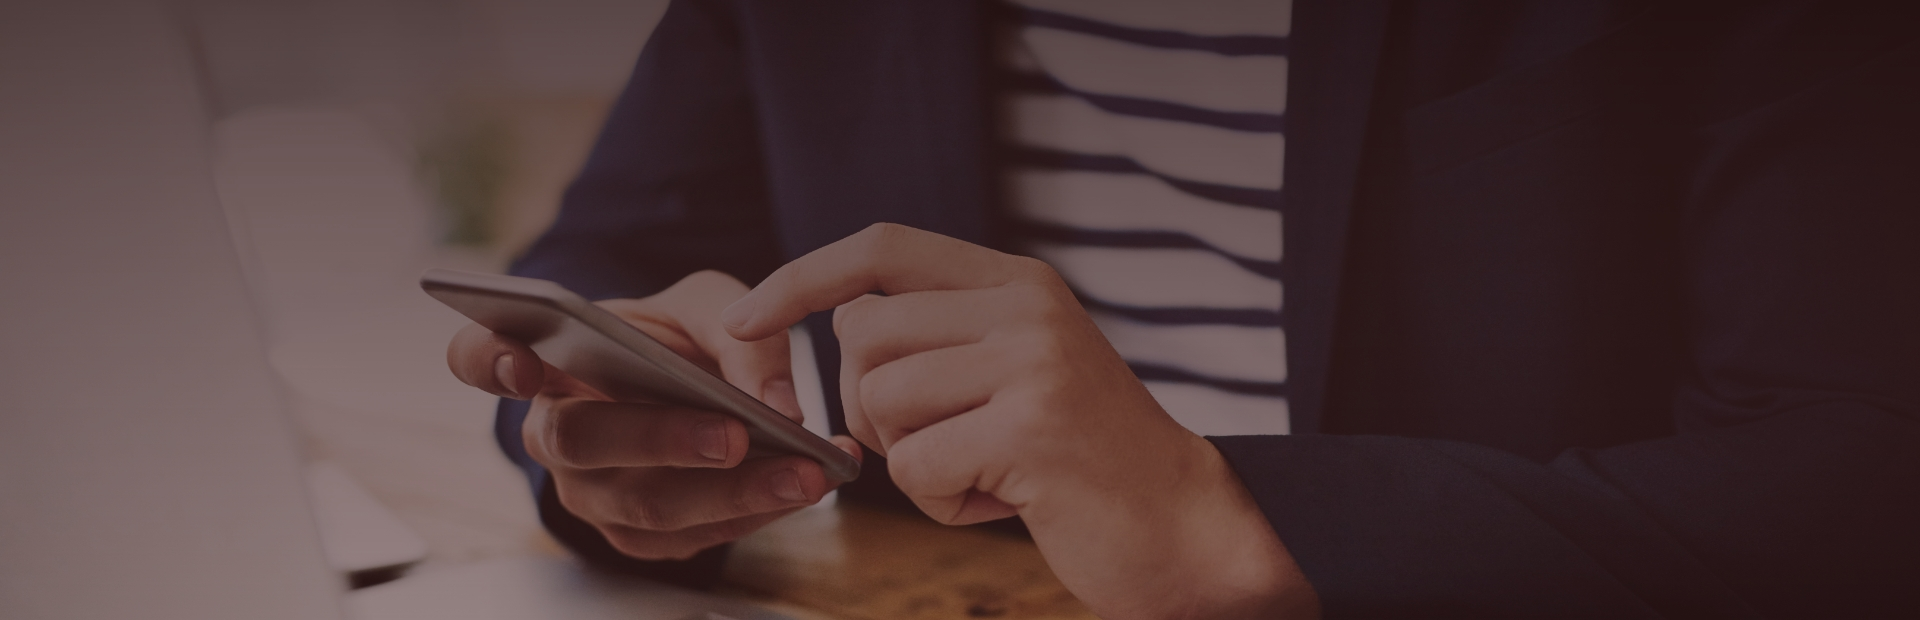
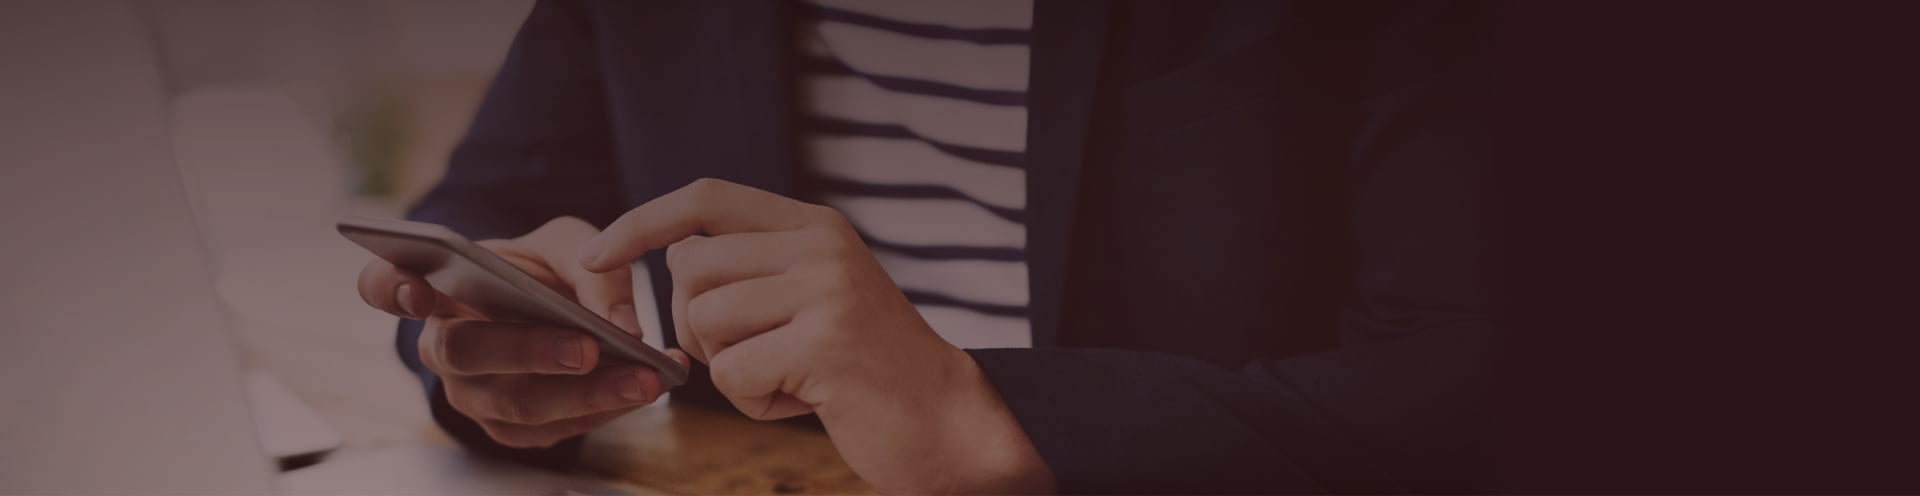
서비스소개 수정

diff --git a/pc/css/common.css b/pc/css/common.css
@@ -3736,8 +3736,8 @@ html.popOpen {overflow:hidden;}
 	padding: 80px 0;
 }
 
-.wrapper.service .visual {position:relative;height: 590px;}
-.wrapper.service .header.fixed + .container .visual {height: 690px;}
+.wrapper.service .visual {position:relative;height: 446px;}
+.wrapper.service .header.fixed + .container .visual {height: 546px;}
 .wrapper.service .visual .cont {padding-top: 45px;}
 .wrapper.service .visual .tit {display:flex; align-items:center;font-size: 54px; font-weight: 700; color: #fff; margin-bottom: 25px;}
 .wrapper.service .visual .tit img {width: 235px;}
@@ -3757,8 +3757,8 @@ html.popOpen {overflow:hidden;}
 	left: 0;
 	right: 0;
 	width: 100%;
-	height: 70px;
-	line-height: 70px;
+	height: 50px;
+	line-height: 50px;
 	color:#fff;
 	background-color: #e03d7c;
 	text-align: center;
@@ -3768,10 +3768,11 @@ html.popOpen {overflow:hidden;}
 	position: relative;
 	display:inline-block;
 	font-size: 46px;	
-	padding-bottom: 30px;
+	/* padding-bottom: 30px; */
 }
 .wrapper.service h2:before {
-	content: '';
+	display:none;
+	/* content: '';
 	display: block;
 	position: absolute;
 	bottom: 0;
@@ -3779,7 +3780,7 @@ html.popOpen {overflow:hidden;}
 	margin-left: -31px;
 	width: 64px;
 	height: 4px;
-	background-color:#e03d7c;
+	background-color:#e03d7c; */
 }
 .service.event h2 {font-size: 30px; padding-bottom: 0;}
 .service.event h2:before{display: none;}
@@ -3794,12 +3795,12 @@ html.popOpen {overflow:hidden;}
 .wrapper.service .cont1 .flex-area li:nth-child(3) {background:url(../images/img/img_sevice1_icon3.png) no-repeat 0 0;}
 .wrapper.service .cont1 .flex-area .f-bold {display: block; font-weight: 700;}
 */
-.wrapper.service .cont1 .info-slide .swiper-wrapper {display:flex;justify-content: center;margin-top: 60px;}
-.wrapper.service .cont1 .info-slide .swiper-wrapper .swiper-slide {width:240px;padding-top:270px;font-size:22px;font-weight: 500;margin-left: 100px;}
+.wrapper.service .cont1 .info-slide .swiper-wrapper {display:flex;justify-content: center;margin-top: 30px;}
+.wrapper.service .cont1 .info-slide .swiper-wrapper .swiper-slide {width:290px;padding-top:225px;font-size:22px;font-weight: 500;margin-left: 65px;}
 .wrapper.service .cont1 .info-slide .swiper-wrapper .swiper-slide:nth-child(1) {margin-left:0;background:url(../images/img/img_sevice1_icon1.png) no-repeat 0 0; background-position: center top;}
 .wrapper.service .cont1 .info-slide .swiper-wrapper .swiper-slide:nth-child(2) {background:url(../images/img/img_sevice1_icon2.png) no-repeat 0 0; background-position: center top;}
 .wrapper.service .cont1 .info-slide .swiper-wrapper .swiper-slide:nth-child(3) {background:url(../images/img/img_sevice1_icon3.png) no-repeat 0 0; background-position: center top;}
-.wrapper.service .cont1 .info-slide .swiper-wrapper .f-bold {display: block; font-weight: 700;}
+.wrapper.service .cont1 .info-slide .swiper-wrapper .f-bold { font-weight: 700; letter-spacing: -1px; margin-left: 2px;}
 
 .wrapper.service .cont > .box-list > li{
 	display:flex; 
@@ -3823,7 +3824,7 @@ html.popOpen {overflow:hidden;}
 	line-height: 40px;
 	font-weight: 700;
 }
-.wrapper.service .cont2 .box-list{margin-top: 60px;}
+.wrapper.service .cont2 .box-list{margin-top: 30px;}
 .wrapper.service .cont2 .box-list li.item1 {background: #fff url(../images/img/img_sevice2_section1.png) no-repeat calc(100% - 82px) center;}
 .wrapper.service .cont2 .box-list li.item2 {background:#fff url(../images/img/img_sevice2_section2.png) no-repeat 73px 42px;}
 .wrapper.service .cont2 .box-list li.item3 {background:#fff url(../images/img/img_sevice2_section3.png) no-repeat calc(100% - 167px) center;}
@@ -4210,7 +4211,7 @@ html.popOpen {overflow:hidden;}
 	.wrapper.service .footer {padding: 15px 0;}
 	.wrapper.service .footer .link-area {margin-bottom: 5px;}
 
-	.wrapper.service .visual {height: 557px;}
+	.wrapper.service .visual {height: 536px;}
 	.wrapper.service .visual .cont {padding-bottom: 0;}
 	.wrapper.service  .visual .cont .flex-area {display: initial; text-align: center;}
 	.wrapper.service  .visual .cont .flex-area .left {text-align: center !important;}
@@ -4237,7 +4238,7 @@ html.popOpen {overflow:hidden;}
 
 	.wrapper.service .visual .tit {display: block; margin-bottom:10px;text-align: center; font-size: 30px;}
 	.wrapper.service .visual .tit img {vertical-align: sub; width: 130px;}
-	.wrapper.service .visual .txt-banner {height:60px; padding:10px;font-size: 13px; line-height: 20px;}
+	.wrapper.service .visual .txt-banner {height:40px; padding:10px;font-size: 13px; line-height: 20px;}
 
 
 

diff --git a/pc/html/customer-service/webfax-info.html b/pc/html/customer-service/webfax-info.html
@@ -29,7 +29,8 @@
 							<img src="../../images/img/h1_login_wh.png" alt="u+웹팩스" >로 1인 1팩스
 						</p>
 						<span class="sub-txt">
-							<em class="f-bold">이메일</em>처럼 간편하게 PC, 모바일로 팩스 수발신
+							<em class="f-bold">이메일</em>처럼 간편하게 PC, 모바일로 팩스 수발신,<br>
+							수발신 알림은 <em class="f-bold">SMS</em>로 빠르게
 						</span>
 						<div class="button-area mo-hide">
 							<a href="#" class="btn-lg bg-pink ">서비스 신청</a>
@@ -45,7 +46,7 @@
 					</div>
 				</div>			
 			</div>
-			<p class="txt-banner">U+웹팩스 신규가입하면 수신번호 요금<br class="pc-hide"> <span class="f-bold">50%할인</span> 이벤트를 진행 중입니다!!!</p>
+			<p class="txt-banner">신규회원 가입 시 수신번호 50% 할인 이벤트 진행 중!!!</p>
 		</div>
 		<div class="section">
 			<div class="cont cont1">

diff --git a/pc/html/customer-service/webfax-info-sub.html b/pc/html/customer-service/webfax-info-sub.html
@@ -29,7 +29,8 @@
 							<img src="../../images/img/h1_login_wh.png" alt="u+웹팩스" >로 1인 1팩스
 						</p>
 						<span class="sub-txt">
-							<em class="f-bold">이메일</em>처럼 간편하게 PC, 모바일로 팩스 수발신
+							<em class="f-bold">이메일</em>처럼 간편하게 PC, 모바일로 팩스 수발신,<br>
+							수발신 알림은 <em class="f-bold">SMS</em>로 빠르게
 						</span>
 						<div class="button-area mo-hide">
 							<a href="#" class="btn-lg bg-pink ">서비스 신청</a>
@@ -45,7 +46,7 @@
 					</div>
 				</div>			
 			</div>
-			<p class="txt-banner">U+웹팩스 신규가입하면 수신번호 요금<br class="pc-hide"> <span class="f-bold">50%할인</span> 이벤트를 진행 중입니다!!!</p>
+			<p class="txt-banner">신규회원 가입 시 수신번호 50% 할인 이벤트 진행 중!!!</p>
 		</div>
 		<div class="section">
 			<div class="tab-wrap">
